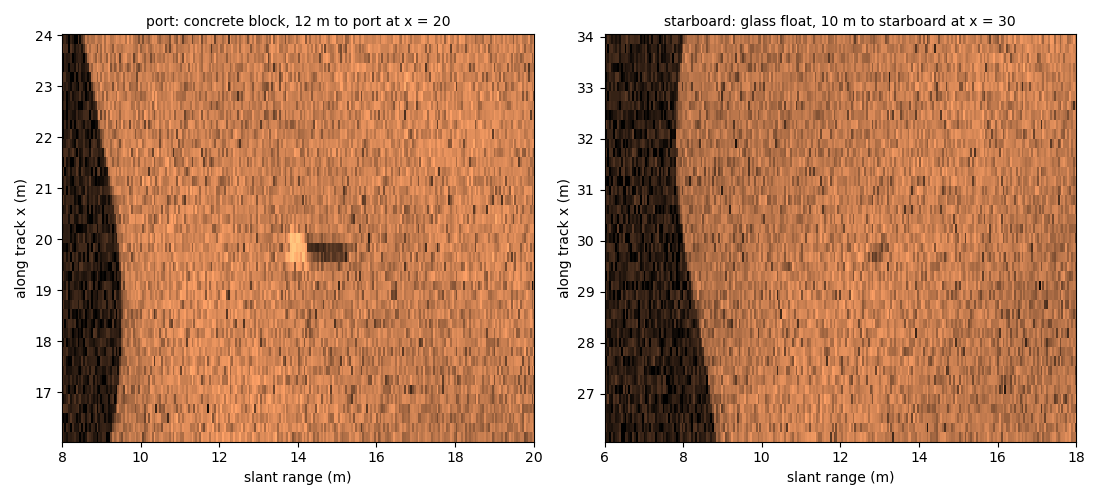
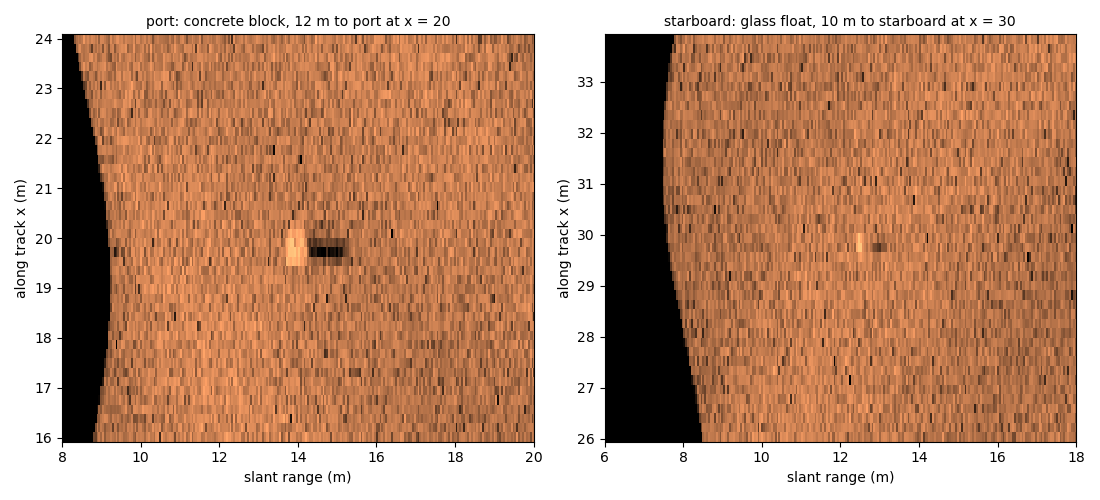
Survey how-to, part 1: the sidescan looks 20 degrees down
The BlueBoat's sidescan now looks 20 degrees down, as Cerulean
recommends (bluerobotics_models#104), and the part 1 figures still
showed 15 degrees and predated noise before the gain, the fixed gain,
the Kirchhoff specular term and the profiler's beam_acoustic frame.

- The scene drawing: axis 20 degrees down, -3 dB edges from 5 above to
  45 below horizontal. At x = 20 the lower edge meets the seabed 7.9 m
  to port and 8.3 m to starboard (7.4 to 8.4 m along the pass), so the
  nadir gap is about 8 m (was 9.5 m) and the strip neither sonar covers
  is 6.7 to 8 m; the 30 m range still meets the seabed at 28.9 m.
- Waterfall, targets, soundings and the pass animation regenerated from
  one new pass against the current install. The block returns at
  13.9 m slant range as before; the glass float now returns at 12.5 m
  (was 12.8 m), about as brightly as the block (13.7 dB above the seabed
  at those ranges, against 2.5 dB before); the beam pattern accounts for
  only about 2.5 dB of that, so the Kirchhoff specular term is the likely
  cause. The captions say so.
  Soundings unchanged: 95 % within 0.095 m, 0.61 m over the drum.
- The design page says the BlueBoat's sidescan points 20 degrees down.

diff --git a/docs/design/figures/sonar_survey_scene.tex b/docs/design/figures/sonar_survey_scene.tex
@@ -2,9 +2,10 @@
 % World frame: x forward, y to port, z up, meters. Surface z = 0; seabed
 %   z(x,y) = -8 + 0.6 sin(2 pi x/25) cos(2 pi y/40) + 0.3 sin(2 pi (x+y)/13).
 % BlueBoat on the surface (hulls at y = +-0.36), running along +x on y = 0 from x = -15.
-% Sidescan (Omniscan 450 SS) at z = -0.08: a beam to each side, axis 15 deg down, 50 deg across track (-3 dB:
-% 10 deg above to 40 deg below horizontal), 0.5 deg along track, range 30 m. The upper edge meets the surface at once;
-% the lower edge meets the seabed about 9.5 m out, leaving the nadir gap; the 30 m range meets it about 28.9 m out.
+% Sidescan (Omniscan 450 SS) at z = -0.08: a beam to each side, axis 20 deg down, 50 deg across track (-3 dB:
+% 5 deg above to 45 deg below horizontal), 0.5 deg along track, range 30 m. The upper edge meets the surface 0.9 m out;
+% the lower edge meets the seabed about 8 m out (at x = 20: 7.9 m to port, 8.3 m to starboard; 7.4 to 8.4 m along the
+% pass), leaving the nadir gap; the 30 m range meets it about 28.9 m out (28.9 to port, 29.0 to starboard at x = 20).
 % Profiler (Surveyor 240-16) at z = -0.08, looking down, 80 deg across track: about +-6.7 m on 8 m of water.
 % Targets: steel drum 0.58 m dia x 0.88 m, across the track, at (10, 0); concrete block 0.5 m cube, yaw 0.3, at
 % (20, 12); glass float r 0.2 at (30, -10).
@@ -34,18 +35,19 @@
     \pgfmathsetmacro{\af}{asin(7.9/30)}
     \draw[thin] (33,0) -- (-33,0);
     % sidescan beams, one per side: surface, 30 m range, seabed, lower edge
-    % (the seabed runs 28.9 back to 9.5 as 38.4 - t)
-    \draw[beam] (0,-0.08) -- (0.45,0) -- (30,0)
+    % (the seabed runs back from the 30 m range to the lower edge: port 28.88 to 7.87 as 36.75 - t,
+    % starboard 29.03 to 8.25 as t - 37.28)
+    \draw[beam] (0,-0.08) -- (0.91,0) -- (30,0)
       -- plot[domain=0:\af,samples=12] ({30*cos(\x)},{-0.08-30*sin(\x)})
-      -- plot[domain=9.5:28.9,samples=30] ({38.4-\x},{zsb(\X,38.4-\x)}) -- cycle;
-    \draw[beam] (0,-0.08) -- (-0.45,0) -- (-30,0)
+      -- plot[domain=7.87:28.88,samples=30] ({36.75-\x},{zsb(\X,36.75-\x)}) -- cycle;
+    \draw[beam] (0,-0.08) -- (-0.91,0) -- (-30,0)
       -- plot[domain=0:\af,samples=12] ({-30*cos(\x)},{-0.08-30*sin(\x)})
-      -- plot[domain=9.5:28.9,samples=30] ({\x-38.4},{zsb(\X,\x-38.4)}) -- cycle;
-    % the sidescan's own lines: each beam's 30 m arc, its lower -3 dB edge, and its axis 15 deg down
-    \foreach \s in {1,-1} {
+      -- plot[domain=8.25:29.03,samples=30] ({\x-37.28},{zsb(\X,\x-37.28)}) -- cycle;
+    % the sidescan's own lines: each beam's 30 m arc, its lower -3 dB edge, and its axis 20 deg down
+    \foreach \s/\e in {1/7.87,-1/-8.25} {
       \draw[thin] plot[domain=0:\af,samples=12] ({\s*30*cos(\x)},{-0.08-30*sin(\x)});
-      \draw[ssedge] (0,-0.08) -- ({\s*9.5},{zsb(\X,\s*9.5)});
-      \draw[ssaxis] (0,-0.08) -- ({\s*13.52},-3.7);
+      \draw[ssedge] (0,-0.08) -- (\e,{zsb(\X,\e)});
+      \draw[ssaxis] (0,-0.08) -- ({\s*13.16},-4.87);
     }
     % profiler fan, 80 deg across track
     \foreach \t in {-40,-30,...,40} {
@@ -68,20 +70,20 @@
     \node[lbl,anchor=south] at (-28,0.2) {STARBOARD};
     \draw[lead] (0,0.3) -- (-3,3) node[lbl,anchor=south west] {BlueBoat};
     \node[lbl,align=center] at (22,-1.6) {sidescan,\\port beam};
-    \node[lbl,align=center] at (-22,-1.6) {sidescan, starboard beam,\\15$^\circ$ down, 50$^\circ$ wide};
+    \node[lbl,align=center] at (-22,-1.6) {sidescan, starboard beam,\\20$^\circ$ down, 50$^\circ$ wide};
     \draw[dim] (-34.5,0) -- (-34.5,-8) node[lbl,midway,right] {8 m};
-    \draw[dim] (9.5,-11.2) -- (-9.5,-11.2) node[lbl,midway,below] {nadir gap};
-    \draw (9.5,-9) -- (9.5,-11.5) (-9.5,-9) -- (-9.5,-11.5);
+    \draw[dim] (7.87,-11.2) -- (-8.25,-11.2) node[lbl,midway,below] {nadir gap};
+    \draw (7.87,-9) -- (7.87,-11.5) (-8.25,-9) -- (-8.25,-11.5);
     \draw[lead] (-5,-6.2) -- (-11,-5.6) node[lbl,anchor=west] {profiler, 80$^\circ$ fan straight down};
-    \draw[lead] (-8.3,-7.1) -- (-12,-10.2) node[lbl,anchor=north west] {sidescan beams' lower edges};
+    \draw[lead] (-7.0,-7.1) -- (-12,-10.2) node[lbl,anchor=north west] {sidescan beams' lower edges};
     \draw[lead] (12,{zsb(\X,12)+0.5}) -- (17,-10.2) node[lbl,anchor=north east] {block, 12 m to port};
     \node[lbl] at (0,-15.5) {(a) section across the track at $x$ = 20 m, looking forward};
   \end{scope}
 
   % ================================================ (b) plan view: forward up, starboard right
   \begin{scope}[shift={(0,-11.6)},x={(0cm,0.16cm)},y={(-0.16cm,0cm)}]
-    \fill[black!7] (-15,9.5) rectangle (40,28.9);
-    \fill[black!7] (-15,-9.5) rectangle (40,-28.9);
+    \fill[black!7] (-15,8) rectangle (40,28.9);
+    \fill[black!7] (-15,-8) rectangle (40,-28.9);
     \draw[dashed] (-15,-6.7) rectangle (40,6.7);
     \draw[thick,-{Latex[length=2.4mm]}] (-15,0) -- (42,0);
     % targets at true size
@@ -99,10 +101,10 @@
     \node[lbl,align=center] at (0,19.2) {sidescan\\swath};
     \node[lbl,align=center] at (0,-19.2) {sidescan\\swath};
     \draw[lead] (-8,-6.7) -- (-11,-11) node[lbl,anchor=north west] {profiler swath, $\pm$6.7 m};
-    \draw[lead] (25,-8.1) -- (21,-14) node[lbl,anchor=west] {covered by neither, 6.7 to 9.5 m};
+    \draw[lead] (25,-7.35) -- (21,-14) node[lbl,anchor=west] {covered by neither, 6.7 to 8 m};
     \node[lbl,anchor=south] at (40.5,28) {PORT};
     \node[lbl,anchor=south] at (40.5,-28) {STARBOARD};
-    \draw[dim] (-17.5,9.5) -- (-17.5,28.9) node[lbl,midway,below] {to 28.9 m};
+    \draw[dim] (-17.5,8) -- (-17.5,28.9) node[lbl,midway,below] {to 28.9 m};
     \node[lbl] at (-21.5,0) {(b) plan view of the pass};
   \end{scope}
 \end{tikzpicture}

diff --git a/docs/design/sonar.md b/docs/design/sonar.md
@@ -224,7 +224,7 @@ The bathymetric work that a large-ocean multibeam needs (sound-speed ray tracing
 
 ### Sidescan
 
-Configured as one beam per side, narrow along track and wide in elevation, pointing to the side with a depression angle set by the mount; on the BlueBoat each side points 15° down. One ping produces one line; the line-by-line waterfall and any mosaic are built by the consumer from the vehicle's motion, as with the real sensor, so the vessel's roll, pitch and yaw enter the data without special handling. The sonar plugin publishes each side's line in a `SonarImage` message: each sample in dB as float32, with time-varied gain for spreading and absorption applied by default, as sidescan viewers expect. The time-varied gain is an exact term, `tvg_spreading`·log₁₀R + 2αR in dB, and the gz-transport message carries it for every sample along with the gain, so a consumer can take both out; `marine_acoustic_msgs/ProjectedSonarImage` has no field for either, so on the ROS side `tvg` set to `none` and a fixed `gain` publish the received level directly. The gain is fixed by default; set to `auto`, it is smoothed across pings with a time constant of about a second, as real sidescans do: set ping by ping, it darkens every line that holds a bright target and stripes the waterfall, as Phase 1 showed. The Omniscan scales its dB values into uint16 for its link, which the simulation has no need to copy. The Omniscan defaults: 450 kHz, 0.5° by 50°, no tilt, 600 samples, far field beyond 9 m. The nadir gap, the first bottom return, and the grazing-angle dependence of the seabed return all follow from the geometry and the backscatter law.
+Configured as one beam per side, narrow along track and wide in elevation, pointing to the side with a depression angle set by the mount; on the BlueBoat each side points 20° down. One ping produces one line; the line-by-line waterfall and any mosaic are built by the consumer from the vehicle's motion, as with the real sensor, so the vessel's roll, pitch and yaw enter the data without special handling. The sonar plugin publishes each side's line in a `SonarImage` message: each sample in dB as float32, with time-varied gain for spreading and absorption applied by default, as sidescan viewers expect. The time-varied gain is an exact term, `tvg_spreading`·log₁₀R + 2αR in dB, and the gz-transport message carries it for every sample along with the gain, so a consumer can take both out; `marine_acoustic_msgs/ProjectedSonarImage` has no field for either, so on the ROS side `tvg` set to `none` and a fixed `gain` publish the received level directly. The gain is fixed by default; set to `auto`, it is smoothed across pings with a time constant of about a second, as real sidescans do: set ping by ping, it darkens every line that holds a bright target and stripes the waterfall, as Phase 1 showed. The Omniscan scales its dB values into uint16 for its link, which the simulation has no need to copy. The Omniscan defaults: 450 kHz, 0.5° by 50°, no tilt, 600 samples, far field beyond 9 m. The nadir gap, the first bottom return, and the grazing-angle dependence of the seabed return all follow from the geometry and the backscatter law.
 
 ## Interface
 

diff --git a/docs/how-to/sonar-survey.md b/docs/how-to/sonar-survey.md
@@ -19,7 +19,7 @@ Run everything inside drydock, from `~/maritime_ws`, with the workspace sourced.
 ```{figure} images/sonar-survey-scene.svg
 :alt: Section and plan views of the survey: a BlueBoat on 8 m of water with a sidescan beam to each side and a downward profiler fan, and a steel drum under the track, a concrete block 12 m to port and a glass float 10 m to starboard
 
-The scene. (a) A section across the track: the sidescan's beam on each side (shaded, its axis dotted 15° down, its lower edge dashed) leaves a nadir gap under the boat, which the profiler's 80° fan of soundings covers; between the two, from about 6.7 to 9.5 m out, neither reaches the seabed within its −3 dB beam. (b) From above: the track, the sidescan swaths, the profiler's swath and the three targets.
+The scene. (a) A section across the track: the sidescan's beam on each side (shaded, its axis dotted 20° down, its lower edge dashed) leaves a nadir gap under the boat, which the profiler's 80° fan of soundings covers; between the two, from about 6.7 to 8 m out, neither reaches the seabed within its −3 dB beam. (b) From above: the track, the sidescan swaths, the profiler's swath and the three targets.
 ```
 
 ```{figure} images/sonar-survey-gazebo2.png
@@ -91,9 +91,9 @@ The sidescan, the whole pass. Nothing returns before the seabed, so the nadir ga
 ```
 
 ```{figure} images/sonar-survey-targets.png
-:alt: Two close-ups of the waterfall: on the port side a bright return at about 14 m slant range with a dark shadow beyond it, and on the starboard side a faint return at about 12.8 m with a small shadow
+:alt: Two close-ups of the waterfall: on the port side a bright return at about 14 m slant range with a dark shadow beyond it, and on the starboard side a bright return at about 12.5 m with a small shadow
 
-Close-ups. The concrete block, 12 m to port, returns brightly from the face toward the boat and casts a shadow beyond it. The glass float, 10 m to starboard, returns weakly: glass is smooth, and its glint is seen only head on, which a sidescan never sees. Its shadow shows where it is.
+Close-ups. The concrete block, 12 m to port, returns brightly from the face toward the boat and casts a shadow beyond it. The glass float, 10 m to starboard, returns about as brightly: glass is smooth, and its glint is seen only head on, but a sphere always turns part of its surface head on to the sonar. Its shadow is small.
 ```
 
 ```{figure} images/sonar-survey-soundings.png
